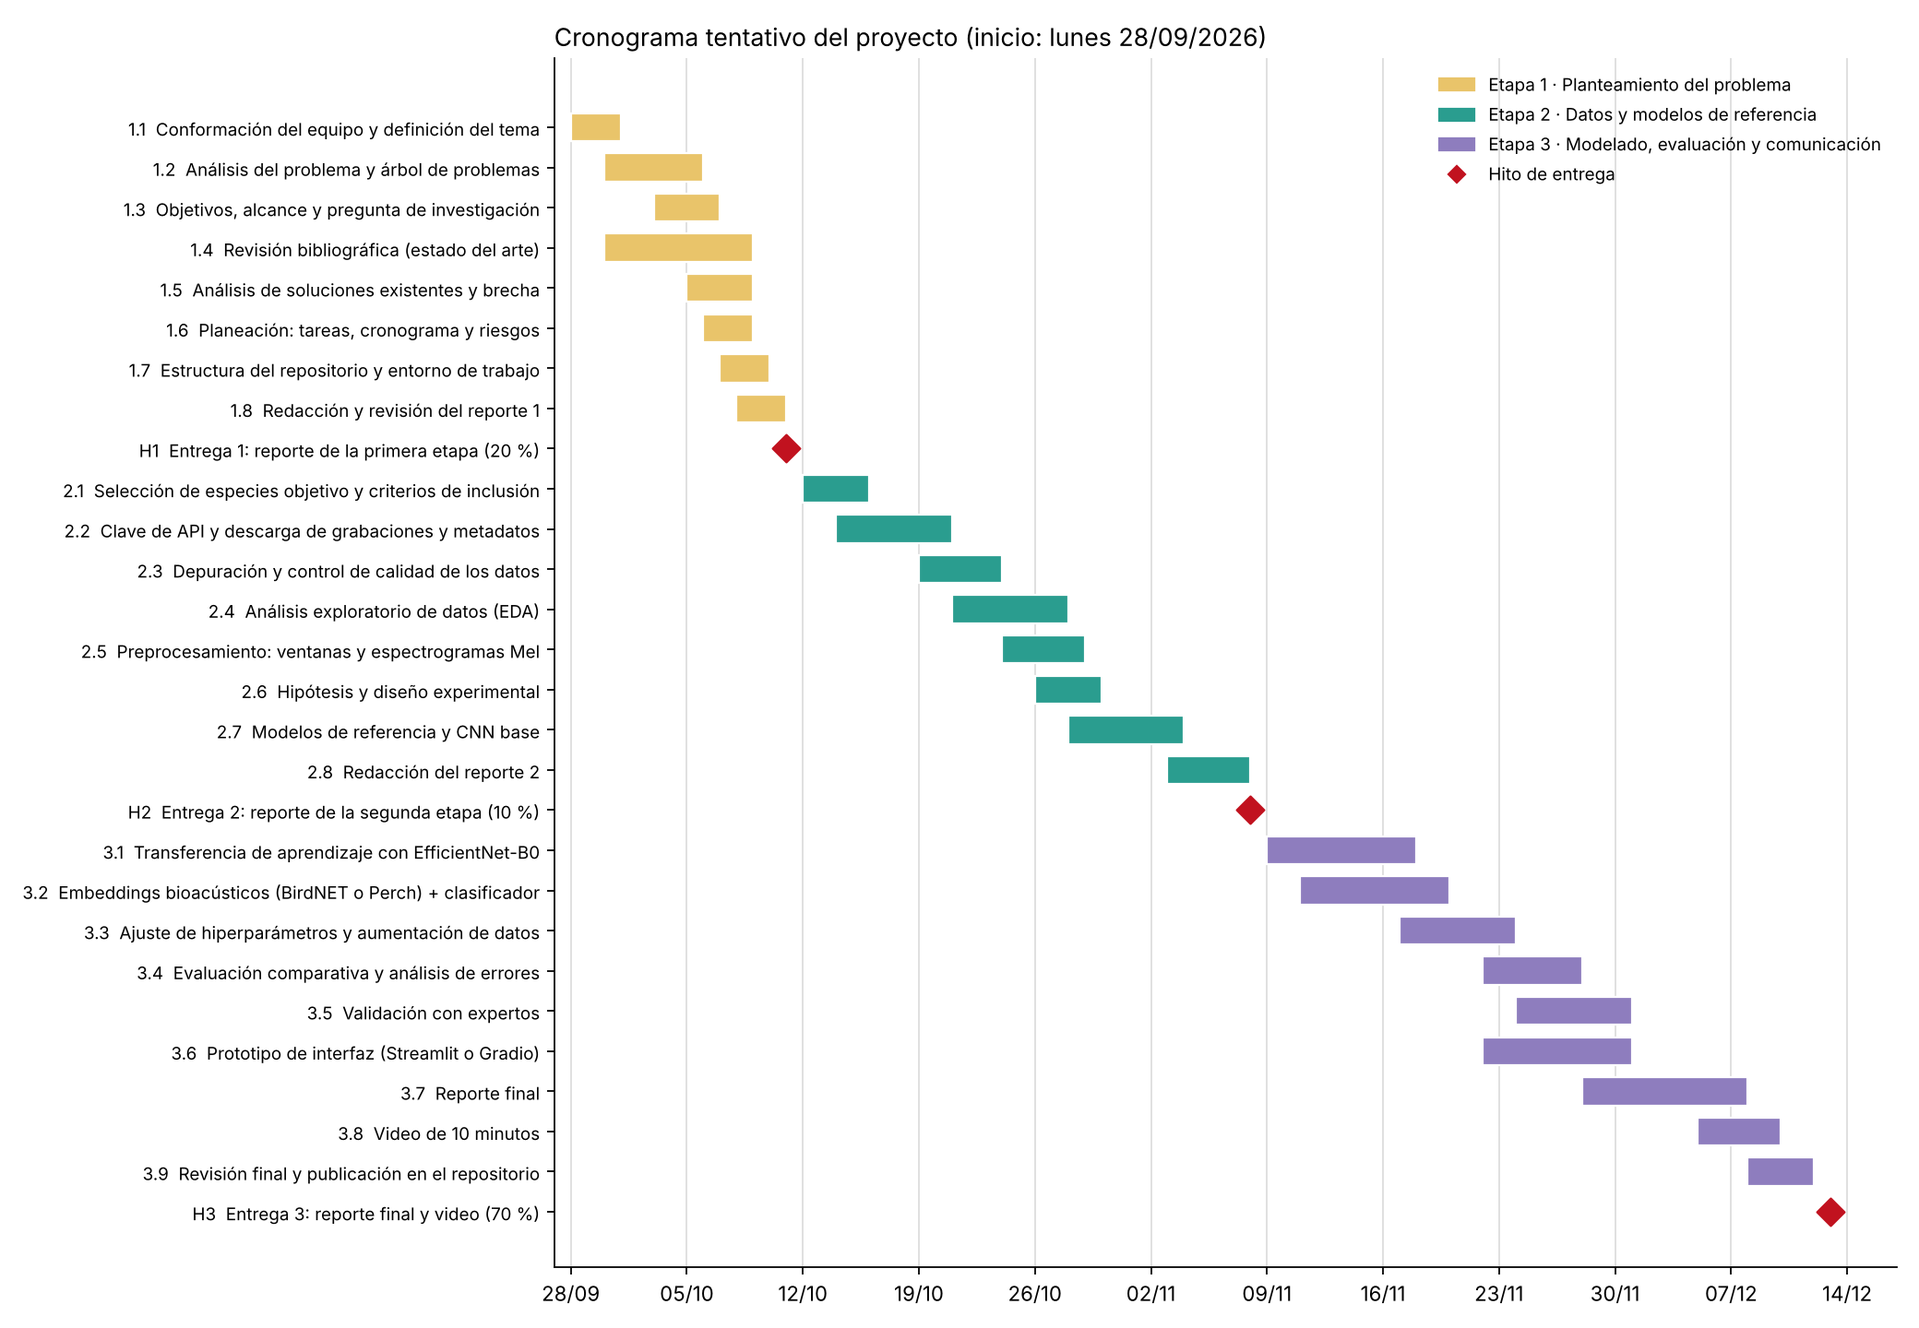
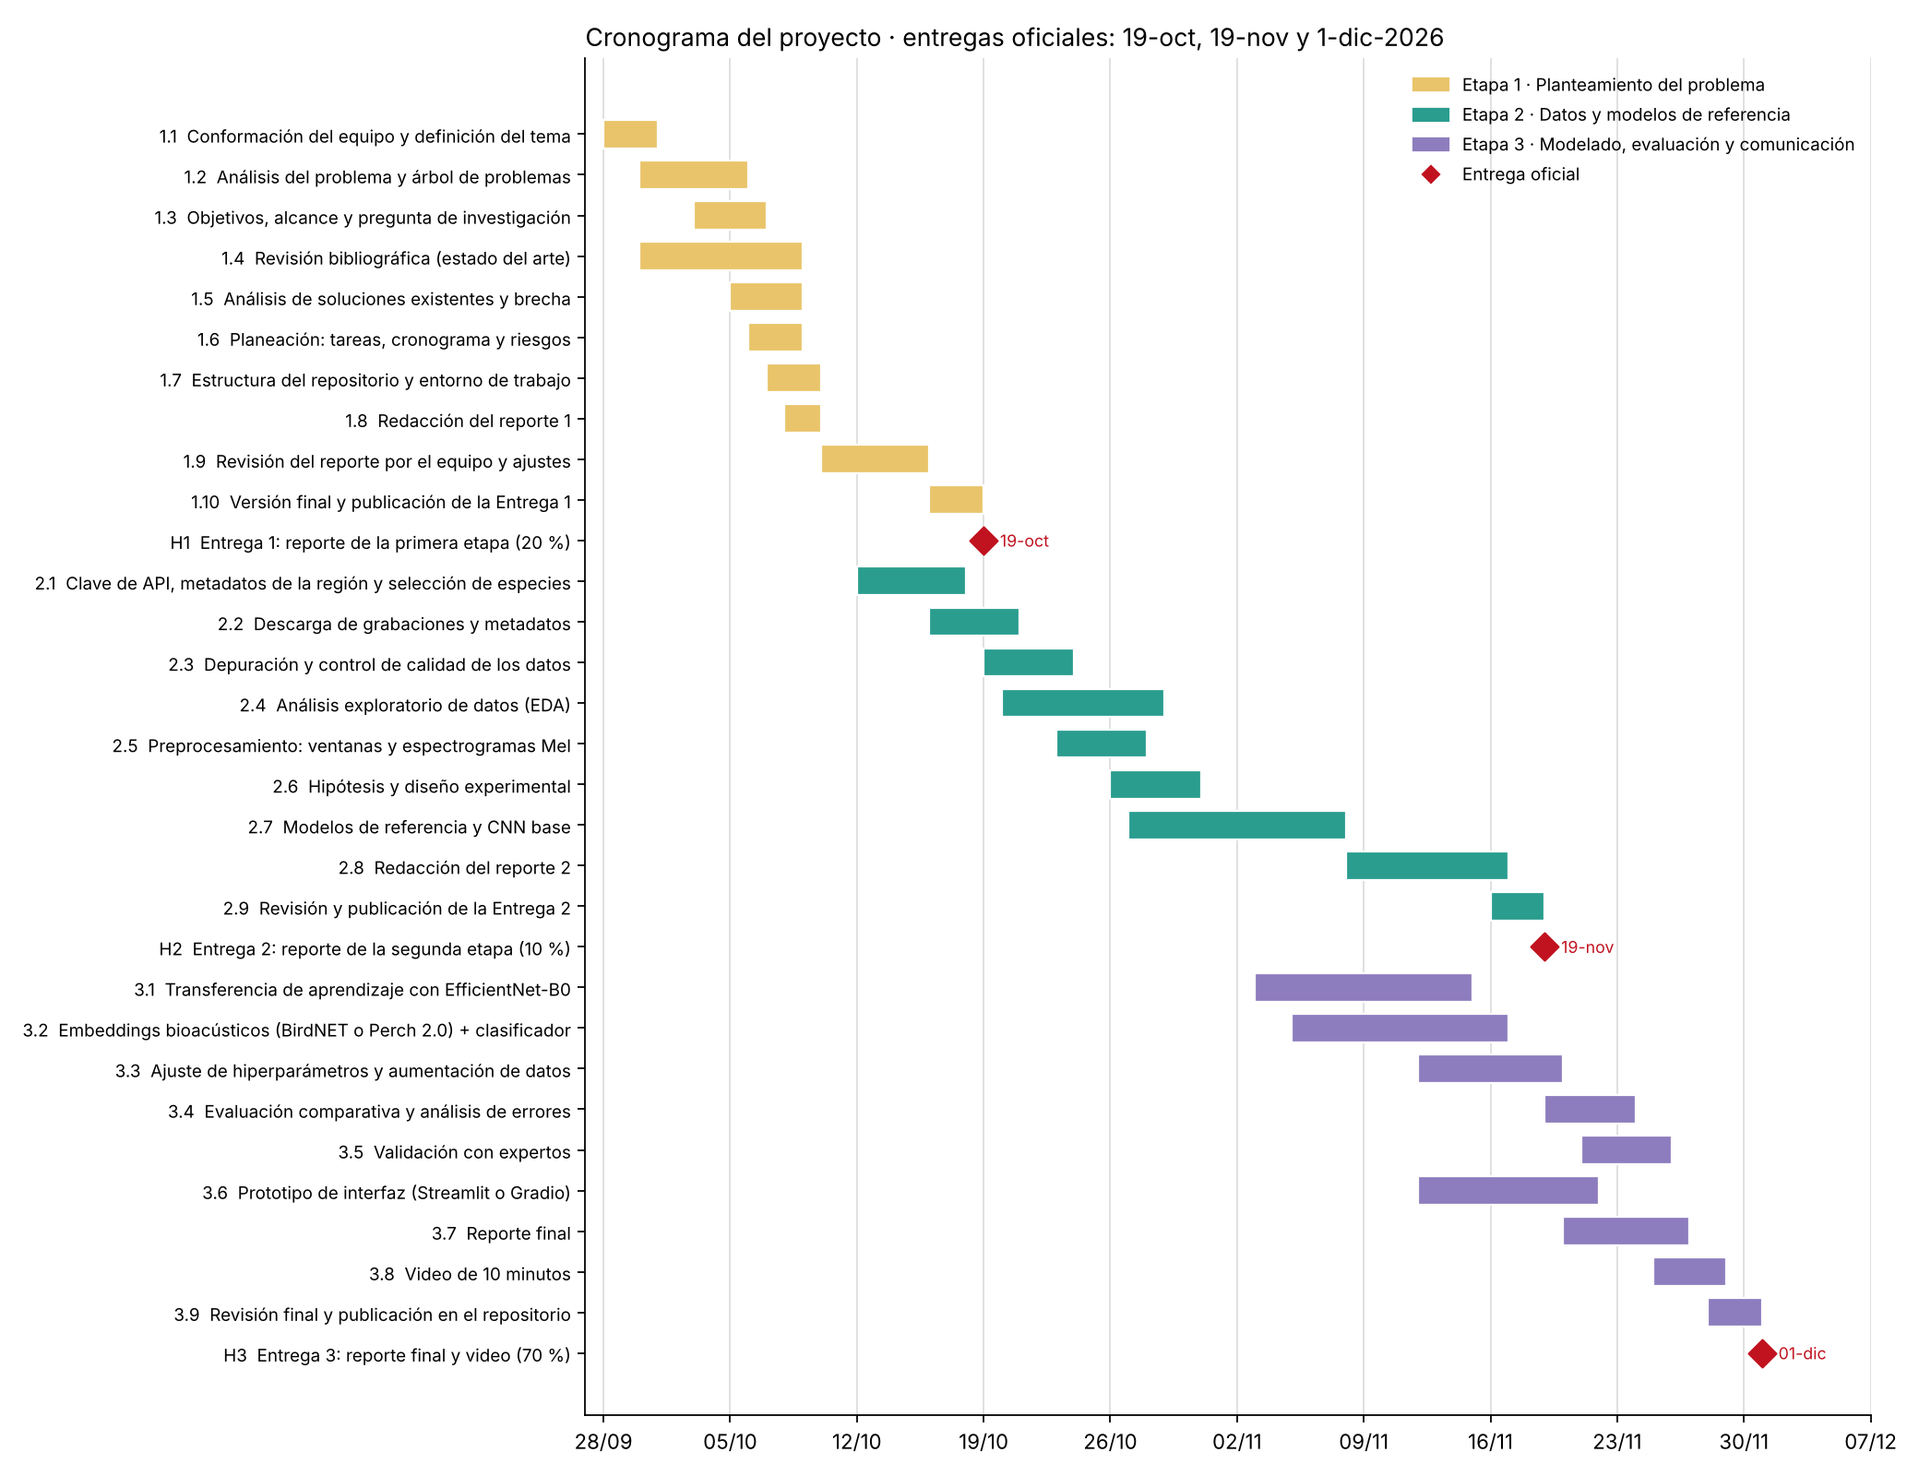
Ajusta el cronograma a las fechas oficiales de entrega
- Entregas: 19-oct, 19-nov y 1-dic-2026 (parámetros del Excel)
- Replaneación con solapamiento: la Etapa 2 inicia el 12-oct y el modelado
  de la Etapa 3 el 3-nov, porque la Entrega 3 llega 12 días después de la 2
- Hitos ligados a las fechas oficiales y holgura por etapa en el Resumen
- Reporte: tablas, Gantt, hitos, nuevo riesgo de calendario y seguimiento
- READMEs con fechas y pendientes de cierre de la fase 1

Changed region(s): [[0.0312, 0.0, 1.0, 1.0]]

diff --git a/entrega_1/docs/reporte_entrega_1.md b/entrega_1/docs/reporte_entrega_1.md
@@ -299,12 +299,15 @@ Python 3.11, PyTorch, librosa, scikit-learn, pandas, matplotlib, Jupyter o Googl
 
 ## VII. Plan de actividades y cronograma
 
-El plan cubre las tres entregas del curso. Las fechas son **tentativas** y se calculan desde la fecha de inicio en el archivo [`cronograma.xlsx`](cronograma.xlsx), que contiene las mismas tareas con fechas, duraciones, avance, estado y diagrama de Gantt calculados con fórmulas; al cambiar la fecha de inicio o una duración, todo el plan se actualiza.
+El plan cubre las tres entregas del curso, con sus fechas oficiales: **19 de octubre**, **19 de noviembre** y **1 de diciembre de 2026**. Las fechas de las actividades se calculan desde el inicio del proyecto (28 de septiembre) en el archivo [`cronograma.xlsx`](cronograma.xlsx), que contiene las mismas tareas con fechas, duraciones, avance, estado, holgura frente a cada entrega y diagrama de Gantt calculados con fórmulas; al cambiar una fecha o una duración, todo el plan se actualiza.
+
+Como la Entrega 3 —que vale el 70 % de la nota— llega solo 12 días después de la Entrega 2, el plan adelanta trabajo: la Etapa 2 arranca el 12 de octubre, en paralelo con la revisión final del reporte 1, y el modelado de la Etapa 3 (transferencia de aprendizaje, *embeddings* y prototipo) inicia el 3 de noviembre, en paralelo con el cierre de la Etapa 2. Cada etapa termina con al menos un día de holgura antes de su entrega.
 
 ### A. Estructura de trabajo
 
 Las dependencias admiten solapamiento: una actividad puede iniciar cuando su predecesora ya está avanzada (relación inicio-inicio con desfase), por eso las fechas se programan con un desfase en días desde el inicio del proyecto.
 
+<!-- INICIO:CRONOGRAMA_TABLA (generado desde cronograma; no editar a mano) -->
 **Etapa 1 · Planteamiento del problema — Entrega 1 (20 % de la nota)**
 
 | ID | Actividad | Inicio | Fin | Días | Predecesora | Entregable |
@@ -316,93 +319,105 @@ Las dependencias admiten solapamiento: una actividad puede iniciar cuando su pre
 | 1.5 | Análisis de soluciones existentes y brecha | 05-oct | 08-oct | 4 | 1.4 | Secciones V.C a V.E |
 | 1.6 | Planeación: tareas, cronograma y riesgos | 06-oct | 08-oct | 3 | 1.3 | Sección VII y cronograma.xlsx |
 | 1.7 | Estructura del repositorio y entorno de trabajo | 07-oct | 09-oct | 3 | 1.1 | Carpeta entrega_1 en GitHub |
-| 1.8 | Redacción y revisión del reporte 1 | 08-oct | 10-oct | 3 | 1.3, 1.5, 1.6 | docs/reporte_entrega_1.md |
-| **H1** | **Entrega 1: reporte de la primera etapa (20 %)** | **11-oct** | — | — | 1.8 | Hito |
+| 1.8 | Redacción del reporte 1 | 08-oct | 09-oct | 2 | 1.3, 1.5, 1.6 | Borrador de docs/reporte_entrega_1.md |
+| 1.9 | Revisión del reporte por el equipo y ajustes | 10-oct | 15-oct | 6 | 1.8 | Comentarios incorporados |
+| 1.10 | Versión final y publicación de la Entrega 1 | 16-oct | 18-oct | 3 | 1.9 | Rama main actualizada |
+| **H1** | **Entrega 1: reporte de la primera etapa (20 %)** | **19-oct** | — | — | 1.10 | Hito oficial |
 
 **Etapa 2 · Datos y modelos de referencia — Entrega 2 (10 % de la nota)**
 
 | ID | Actividad | Inicio | Fin | Días | Predecesora | Entregable |
 |---|---|---|---|---|---|---|
-| 2.1 | Selección de especies objetivo y criterios de inclusión | 12-oct | 15-oct | 4 | H1 | Lista de especies |
-| 2.2 | Clave de API y descarga de grabaciones y metadatos | 14-oct | 20-oct | 7 | 2.1 | data/raw y metadatos |
+| 2.1 | Clave de API, metadatos de la región y selección de especies | 12-oct | 17-oct | 6 | 1.3 | Lista de especies objetivo |
+| 2.2 | Descarga de grabaciones y metadatos | 16-oct | 20-oct | 5 | 2.1 | data/raw y metadatos |
 | 2.3 | Depuración y control de calidad de los datos | 19-oct | 23-oct | 5 | 2.2 | Conjunto depurado |
-| 2.4 | Análisis exploratorio de datos (EDA) | 21-oct | 27-oct | 7 | 2.3 | Notebook de EDA |
-| 2.5 | Preprocesamiento: ventanas y espectrogramas Mel | 24-oct | 28-oct | 5 | 2.3 | data/processed + índice |
-| 2.6 | Hipótesis y diseño experimental | 26-oct | 29-oct | 4 | 2.4 | Sección de hipótesis |
-| 2.7 | Modelos de referencia y CNN base | 28-oct | 03-nov | 7 | 2.5 | Primeras métricas |
-| 2.8 | Redacción del reporte 2 | 03-nov | 07-nov | 5 | 2.6, 2.7 | Reporte de la segunda etapa |
-| **H2** | **Entrega 2: reporte de la segunda etapa (10 %)** | **08-nov** | — | — | 2.8 | Hito |
+| 2.4 | Análisis exploratorio de datos (EDA) | 20-oct | 28-oct | 9 | 2.3 | Notebook de EDA |
+| 2.5 | Preprocesamiento: ventanas y espectrogramas Mel | 23-oct | 27-oct | 5 | 2.3 | data/processed + índice |
+| 2.6 | Hipótesis y diseño experimental | 26-oct | 30-oct | 5 | 2.4 | Sección de hipótesis |
+| 2.7 | Modelos de referencia y CNN base | 27-oct | 07-nov | 12 | 2.5 | Primeras métricas |
+| 2.8 | Redacción del reporte 2 | 08-nov | 16-nov | 9 | 2.6, 2.7 | Reporte de la segunda etapa |
+| 2.9 | Revisión y publicación de la Entrega 2 | 16-nov | 18-nov | 3 | 2.8 | Carpeta entrega_2 en main |
+| **H2** | **Entrega 2: reporte de la segunda etapa (10 %)** | **19-nov** | — | — | 2.9 | Hito oficial |
 
 **Etapa 3 · Modelado, evaluación y comunicación — Entrega 3 (70 % de la nota)**
 
 | ID | Actividad | Inicio | Fin | Días | Predecesora | Entregable |
 |---|---|---|---|---|---|---|
-| 3.1 | Transferencia de aprendizaje con EfficientNet-B0 | 09-nov | 17-nov | 9 | H2 | Modelo entrenado |
-| 3.2 | Embeddings bioacústicos (BirdNET o Perch) + clasificador | 11-nov | 19-nov | 9 | H2 | Modelo entrenado |
-| 3.3 | Ajuste de hiperparámetros y aumentación de datos | 17-nov | 23-nov | 7 | 3.1 | Mejor configuración |
-| 3.4 | Evaluación comparativa y análisis de errores | 22-nov | 27-nov | 6 | 3.2, 3.3 | Tablas y figuras de resultados |
-| 3.5 | Validación con expertos | 24-nov | 30-nov | 7 | 3.4 | Muestra revisada por expertos |
-| 3.6 | Prototipo de interfaz (Streamlit o Gradio) | 22-nov | 30-nov | 9 | 3.1 | Aplicación de demostración |
-| 3.7 | Reporte final | 28-nov | 07-dic | 10 | 3.4 | Reporte final |
-| 3.8 | Video de 10 minutos | 05-dic | 09-dic | 5 | 3.7 | Video |
-| 3.9 | Revisión final y publicación en el repositorio | 08-dic | 11-dic | 4 | 3.7, 3.8 | Repositorio final |
-| **H3** | **Entrega 3: reporte final y video (70 %)** | **13-dic** | — | — | 3.9 | Hito |
+| 3.1 | Transferencia de aprendizaje con EfficientNet-B0 | 03-nov | 14-nov | 12 | 2.5 | Modelo entrenado |
+| 3.2 | Embeddings bioacústicos (BirdNET o Perch 2.0) + clasificador | 05-nov | 16-nov | 12 | 2.3 | Modelo entrenado |
+| 3.3 | Ajuste de hiperparámetros y aumentación de datos | 12-nov | 19-nov | 8 | 3.1 | Mejor configuración |
+| 3.4 | Evaluación comparativa y análisis de errores | 19-nov | 23-nov | 5 | 3.2, 3.3 | Tablas y figuras de resultados |
+| 3.5 | Validación con expertos | 21-nov | 25-nov | 5 | 3.4 | Muestra revisada por expertos |
+| 3.6 | Prototipo de interfaz (Streamlit o Gradio) | 12-nov | 21-nov | 10 | 3.1 | Aplicación de demostración |
+| 3.7 | Reporte final | 20-nov | 26-nov | 7 | 3.4 | Reporte final |
+| 3.8 | Video de 10 minutos | 25-nov | 28-nov | 4 | 3.7 | Video |
+| 3.9 | Revisión final y publicación en el repositorio | 28-nov | 30-nov | 3 | 3.7, 3.8 | Repositorio final |
+| **H3** | **Entrega 3: reporte final y video (70 %)** | **01-dic** | — | — | 3.9 | Hito oficial |
+<!-- FIN:CRONOGRAMA_TABLA -->
 
 ### B. Diagrama de Gantt
 
+<!-- INICIO:CRONOGRAMA_GANTT (generado desde cronograma; no editar a mano) -->
 ```mermaid
 gantt
-    title Cronograma tentativo del proyecto
+    title Cronograma del proyecto
     dateFormat YYYY-MM-DD
     axisFormat %d/%m
     todayMarker off
     section Etapa 1
-    1.1 Conformación del equipo y definición del tema :t11, 2026-09-28, 3d
-    1.2 Análisis del problema y árbol de problemas :t12, 2026-09-30, 6d
-    1.3 Objetivos alcance y pregunta de investigación :t13, 2026-10-03, 4d
-    1.4 Revisión bibliográfica (estado del arte) :t14, 2026-09-30, 9d
-    1.5 Análisis de soluciones existentes y brecha :t15, 2026-10-05, 4d
-    1.6 Planeación - tareas cronograma y riesgos :t16, 2026-10-06, 3d
-    1.7 Estructura del repositorio y entorno de trabajo :t17, 2026-10-07, 3d
-    1.8 Redacción y revisión del reporte 1 :t18, 2026-10-08, 3d
-    Entrega 1 :milestone, th1, 2026-10-11, 0d
+    1.1 Conformación del equipo y definición del tema :t1_1, 2026-09-28, 3d
+    1.2 Análisis del problema y árbol de problemas :t1_2, 2026-09-30, 6d
+    1.3 Objetivos alcance y pregunta de investigación :t1_3, 2026-10-03, 4d
+    1.4 Revisión bibliográfica (estado del arte) :t1_4, 2026-09-30, 9d
+    1.5 Análisis de soluciones existentes y brecha :t1_5, 2026-10-05, 4d
+    1.6 Planeación - tareas cronograma y riesgos :t1_6, 2026-10-06, 3d
+    1.7 Estructura del repositorio y entorno de trabajo :t1_7, 2026-10-07, 3d
+    1.8 Redacción del reporte 1 :t1_8, 2026-10-08, 2d
+    1.9 Revisión del reporte por el equipo y ajustes :t1_9, 2026-10-10, 6d
+    1.10 Versión final y publicación de la Entrega 1 :t1_10, 2026-10-16, 3d
+    Entrega 1 :milestone, th1, 2026-10-19, 0d
     section Etapa 2
-    2.1 Selección de especies objetivo y criterios de inclusión :t21, 2026-10-12, 4d
-    2.2 Clave de API y descarga de grabaciones y metadatos :t22, 2026-10-14, 7d
-    2.3 Depuración y control de calidad de los datos :t23, 2026-10-19, 5d
-    2.4 Análisis exploratorio de datos (EDA) :t24, 2026-10-21, 7d
-    2.5 Preprocesamiento - ventanas y espectrogramas Mel :t25, 2026-10-24, 5d
-    2.6 Hipótesis y diseño experimental :t26, 2026-10-26, 4d
-    2.7 Modelos de referencia y CNN base :t27, 2026-10-28, 7d
-    2.8 Redacción del reporte 2 :t28, 2026-11-03, 5d
-    Entrega 2 :milestone, th2, 2026-11-08, 0d
+    2.1 Clave de API metadatos de la región y selección de especies :t2_1, 2026-10-12, 6d
+    2.2 Descarga de grabaciones y metadatos :t2_2, 2026-10-16, 5d
+    2.3 Depuración y control de calidad de los datos :t2_3, 2026-10-19, 5d
+    2.4 Análisis exploratorio de datos (EDA) :t2_4, 2026-10-20, 9d
+    2.5 Preprocesamiento - ventanas y espectrogramas Mel :t2_5, 2026-10-23, 5d
+    2.6 Hipótesis y diseño experimental :t2_6, 2026-10-26, 5d
+    2.7 Modelos de referencia y CNN base :t2_7, 2026-10-27, 12d
+    2.8 Redacción del reporte 2 :t2_8, 2026-11-08, 9d
+    2.9 Revisión y publicación de la Entrega 2 :t2_9, 2026-11-16, 3d
+    Entrega 2 :milestone, th2, 2026-11-19, 0d
     section Etapa 3
-    3.1 Transferencia de aprendizaje con EfficientNet-B0 :t31, 2026-11-09, 9d
-    3.2 Embeddings bioacústicos (BirdNET o Perch) + clasificador :t32, 2026-11-11, 9d
-    3.3 Ajuste de hiperparámetros y aumentación de datos :t33, 2026-11-17, 7d
-    3.4 Evaluación comparativa y análisis de errores :t34, 2026-11-22, 6d
-    3.5 Validación con expertos :t35, 2026-11-24, 7d
-    3.6 Prototipo de interfaz (Streamlit o Gradio) :t36, 2026-11-22, 9d
-    3.7 Reporte final :t37, 2026-11-28, 10d
-    3.8 Video de 10 minutos :t38, 2026-12-05, 5d
-    3.9 Revisión final y publicación en el repositorio :t39, 2026-12-08, 4d
-    Entrega 3 :milestone, th3, 2026-12-13, 0d
+    3.1 Transferencia de aprendizaje con EfficientNet-B0 :t3_1, 2026-11-03, 12d
+    3.2 Embeddings bioacústicos (BirdNET o Perch 2.0) + clasificador :t3_2, 2026-11-05, 12d
+    3.3 Ajuste de hiperparámetros y aumentación de datos :t3_3, 2026-11-12, 8d
+    3.4 Evaluación comparativa y análisis de errores :t3_4, 2026-11-19, 5d
+    3.5 Validación con expertos :t3_5, 2026-11-21, 5d
+    3.6 Prototipo de interfaz (Streamlit o Gradio) :t3_6, 2026-11-12, 10d
+    3.7 Reporte final :t3_7, 2026-11-20, 7d
+    3.8 Video de 10 minutos :t3_8, 2026-11-25, 4d
+    3.9 Revisión final y publicación en el repositorio :t3_9, 2026-11-28, 3d
+    Entrega 3 :milestone, th3, 2026-12-01, 0d
 ```
+<!-- FIN:CRONOGRAMA_GANTT -->
 
 *Figura 3. Diagrama de Gantt del proyecto. Versión en imagen: [`figuras/cronograma_gantt.png`](figuras/cronograma_gantt.png).*
 
 ### C. Hitos y entregables
 
-| Hito | Fecha tentativa | Peso | Contenido evaluado |
+<!-- INICIO:CRONOGRAMA_HITOS (generado desde cronograma; no editar a mano) -->
+| Hito | Fecha oficial | Peso | Contenido evaluado |
 |---|---|---|---|
-| Entrega 1 | 11-oct-2026 | 20 % | Análisis del problema (10 %): problema, objetivos y árbol de problemas · Estado del arte (5 %) · Planeación (5 %) |
-| Entrega 2 | 08-nov-2026 | 10 % | Análisis exploratorio de datos (5 %) · Modelos de referencia, hipótesis y experimentos (5 %) |
-| Entrega 3 | 13-dic-2026 | 70 % | Reporte final (introducción, metodología, resultados, discusión, conclusiones y referencias) · Video de 10 minutos |
+| Entrega 1 | lunes 19-oct-2026 | 20 % | Análisis del problema (10 %): problema, objetivos y árbol de problemas · Estado del arte (5 %) · Planeación (5 %) |
+| Entrega 2 | jueves 19-nov-2026 | 10 % | Análisis exploratorio de datos (5 %) · Modelos de referencia, hipótesis y experimentos (5 %) |
+| Entrega 3 | martes 01-dic-2026 | 70 % | Reporte final (introducción, metodología, resultados, discusión, conclusiones y referencias) · Video de 10 minutos |
+<!-- FIN:CRONOGRAMA_HITOS -->
 
 ### D. Riesgos y mitigación
 
 | Riesgo | Probabilidad | Impacto | Mitigación |
 |---|---|---|---|
+| Solo 12 días entre la Entrega 2 y la Entrega 3 (70 % de la nota) | Alta | Alto | Iniciar el modelado de la Etapa 3 el 3 de noviembre, en paralelo con la Etapa 2; fijar temprano el alcance del prototipo; escribir el reporte final sobre la base del reporte 2 |
 | Pocas grabaciones para algunas especies objetivo | Alta | Alto | Elegir especies con ≥ 30 grabaciones; transferencia de aprendizaje y *embeddings*; aumentación |
 | Etiquetas débiles (otras especies de fondo en la grabación) | Media | Medio | Filtrar calidad A–B; descartar ventanas silenciosas; revisión manual de una muestra |
 | Desbalance entre especies | Alta | Medio | Pesos por clase, F1 macro como métrica principal, muestreo balanceado |
@@ -414,7 +429,7 @@ gantt
 
 ### E. Seguimiento
 
-El avance se actualiza semanalmente en [`cronograma.xlsx`](cronograma.xlsx) (columnas *% avance* y *Responsable*). El archivo calcula el estado de cada tarea (completada, en curso, pendiente o atrasada) frente a la fecha de corte y el avance ponderado de cada etapa.
+El avance se actualiza semanalmente en [`cronograma.xlsx`](cronograma.xlsx) (columnas *% avance* y *Responsable*). El archivo calcula el estado de cada tarea (completada, en curso, pendiente o atrasada) frente a la fecha de corte, el avance ponderado de cada etapa y la holgura entre la última actividad de cada etapa y su fecha de entrega, que se marca en rojo si es menor de un día.
 
 ## VIII. Referencias
 

diff --git a/entrega_1/README.md b/entrega_1/README.md
@@ -1,6 +1,6 @@
 # 🐦 Entrega 1 · Identificación de especies por su canto
 
-**Proyecto 1 · Innovación Tecnológica con IA · Grupo 4** — Reporte de la primera etapa (20 % de la nota)
+**Proyecto 1 · Innovación Tecnológica con IA · Grupo 4** — Reporte de la primera etapa (20 % de la nota) · Fecha de entrega: **19 de octubre de 2026**
 
 Sistema basado en aprendizaje profundo que, a partir de una grabación de audio, estima qué especie de fauna colombiana está vocalizando. Esta entrega contiene el **análisis del problema, el estado del arte y la planeación**, junto con la estructura del repositorio y un *pipeline* base ya probado.
 
@@ -72,8 +72,10 @@ python -m src.main predict --audio mi_grabacion.wav --checkpoint experiments/che
 - [x] Estado del arte y análisis de soluciones existentes
 - [x] Cronograma y gestión de riesgos
 - [x] Estructura del repositorio, *pipeline* base y pruebas automáticas
-- [ ] Revisión del reporte por todo el equipo (tarea 1.8)
-- [ ] Ajustar las fechas del cronograma al calendario oficial del curso
+- [x] Cronograma ajustado a las fechas oficiales (19-oct, 19-nov y 1-dic-2026)
+- [ ] Revisión del reporte por todo el equipo (tarea 1.9, hasta el 15-oct)
+- [ ] Asignar responsables a las tareas «Por asignar» en `docs/cronograma.xlsx`
+- [ ] Versión final y publicación (tarea 1.10, hasta el 18-oct)
 
 ## 👥 Equipo — Grupo 4
 

diff --git a/README.md b/README.md
@@ -73,11 +73,11 @@ Construir un modelo de IA capaz de clasificar especies de fauna colombiana a par
 
 Cada entrega vive en su propia carpeta con la estructura estándar del curso (`docs/`, `src/`, `notebooks/`, `experiments/`, `tests/`, `requirements.txt`, `README.md`).
 
-| Entrega | Contenido | Peso | Carpeta | Estado |
-|---|---|---|---|---|
-| 1 | Análisis del problema, estado del arte y planeación | 20 % | [`entrega_1/`](entrega_1/) | ✅ Lista para revisión del equipo |
-| 2 | Análisis exploratorio de datos, modelos de referencia e hipótesis | 10 % | `entrega_2/` | ⏳ Pendiente |
-| 3 | Reporte final y video de 10 minutos | 70 % | `entrega_3/` | ⏳ Pendiente |
+| Entrega | Fecha | Contenido | Peso | Carpeta | Estado |
+|---|---|---|---|---|---|
+| 1 | 19-oct-2026 | Análisis del problema, estado del arte y planeación | 20 % | [`entrega_1/`](entrega_1/) | ✅ Lista para revisión del equipo |
+| 2 | 19-nov-2026 | Análisis exploratorio de datos, modelos de referencia e hipótesis | 10 % | `entrega_2/` (rama `entrega-2`) | 🚧 En progreso |
+| 3 | 1-dic-2026 | Reporte final y video de 10 minutos | 70 % | `entrega_3/` | ⏳ Pendiente |
 
 📄 **Reporte de la Entrega 1:** [`entrega_1/docs/reporte_entrega_1.md`](entrega_1/docs/reporte_entrega_1.md) · 📅 **Cronograma:** [`entrega_1/docs/cronograma.xlsx`](entrega_1/docs/cronograma.xlsx)
 
